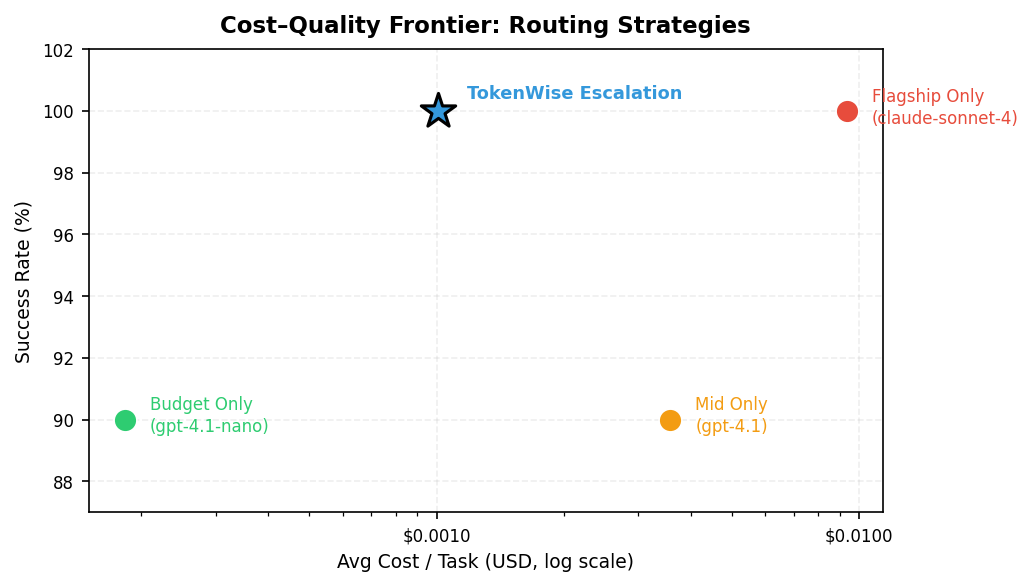
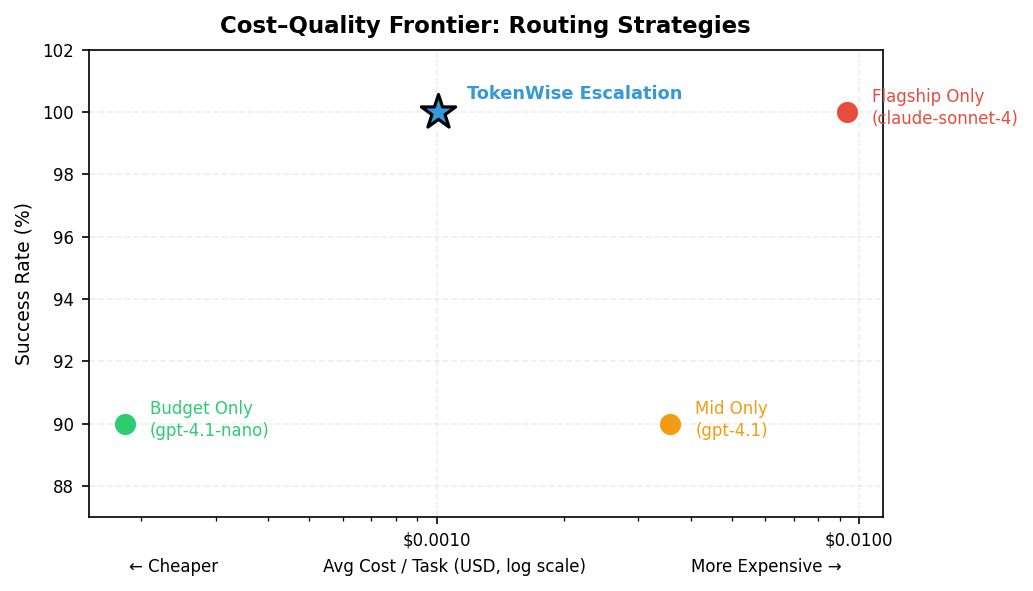
fix: add directional hints to benchmark plot x-axis

diff --git a/benchmarks/strategy_pareto.py b/benchmarks/strategy_pareto.py
@@ -440,7 +440,7 @@ def plot_pareto(strategies: dict[str, StrategyResult], output_path: str) -> None
         )
 
     ax.set_xscale("log")
-    ax.set_xlabel("Avg Cost / Task (USD, log scale)", fontsize=9)
+    ax.set_xlabel("\u2190 Cheaper                    Avg Cost / Task (USD, log scale)                    More Expensive \u2192", fontsize=8)
     ax.set_ylabel("Success Rate (%)", fontsize=9)
     ax.set_title(
         "Cost\u2013Quality Frontier: Routing Strategies",
